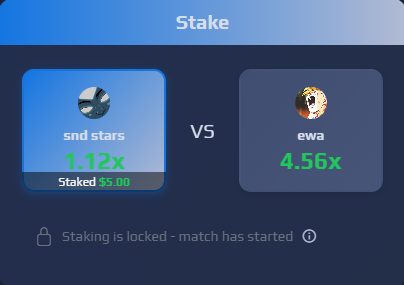
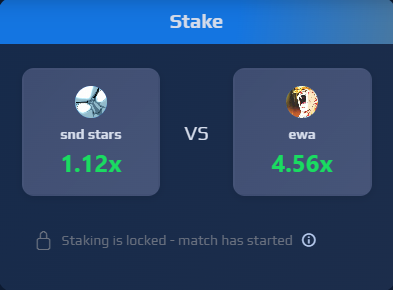
Update staking visuals and component behavior; replace stake image, add backup image, and adjust pause timing for improved user experience.

diff --git a/src/components/StakingClarityHeadline.tsx b/src/components/StakingClarityHeadline.tsx
@@ -5,8 +5,8 @@ import { useEffect, useState } from "react";
 const LINE1 = "Staking";
 const LINE2 = "not betting";
 const MS_PER_CHAR = 52;
-/** Pause after line 1 finishes before line 2 begins. */
-const PAUSE_AFTER_LINE1_MS = 1020;
+/** Pause after line 1 finishes before line 2 begins (same as between typed chars on line 1). */
+const PAUSE_AFTER_LINE1_MS = MS_PER_CHAR;
 /** Align with card entrance (`motion.div` delay ~0.45s). */
 const START_DELAY_MS = 520;
 